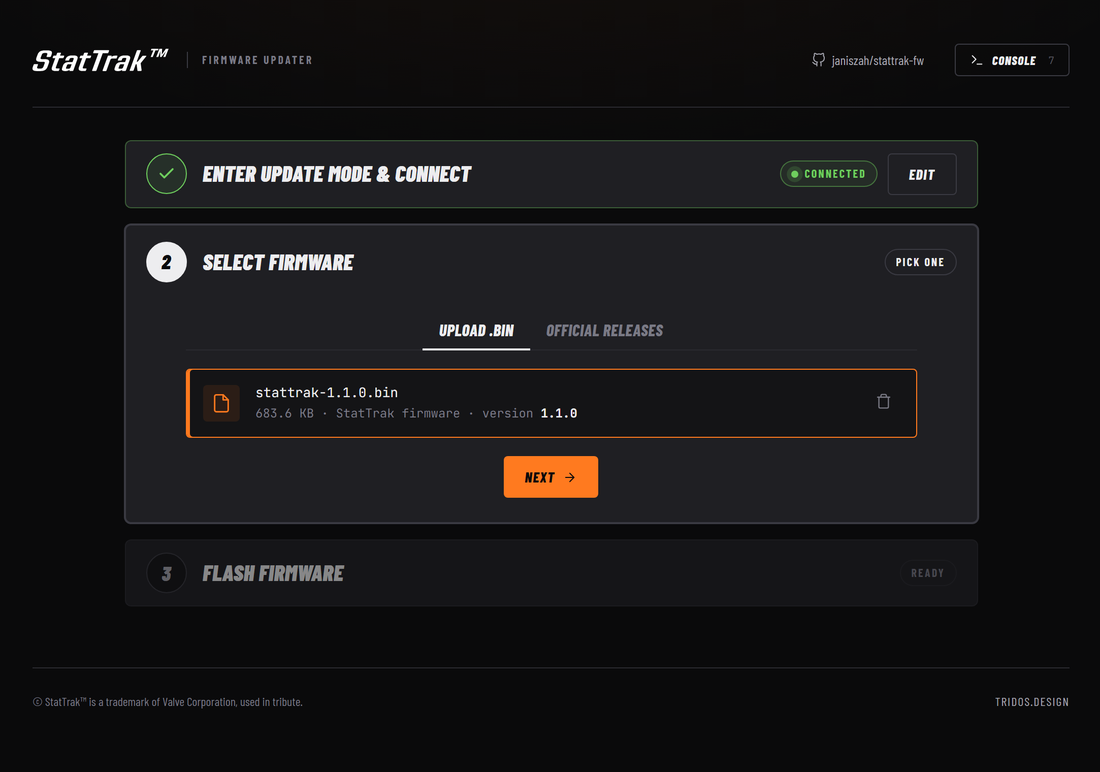
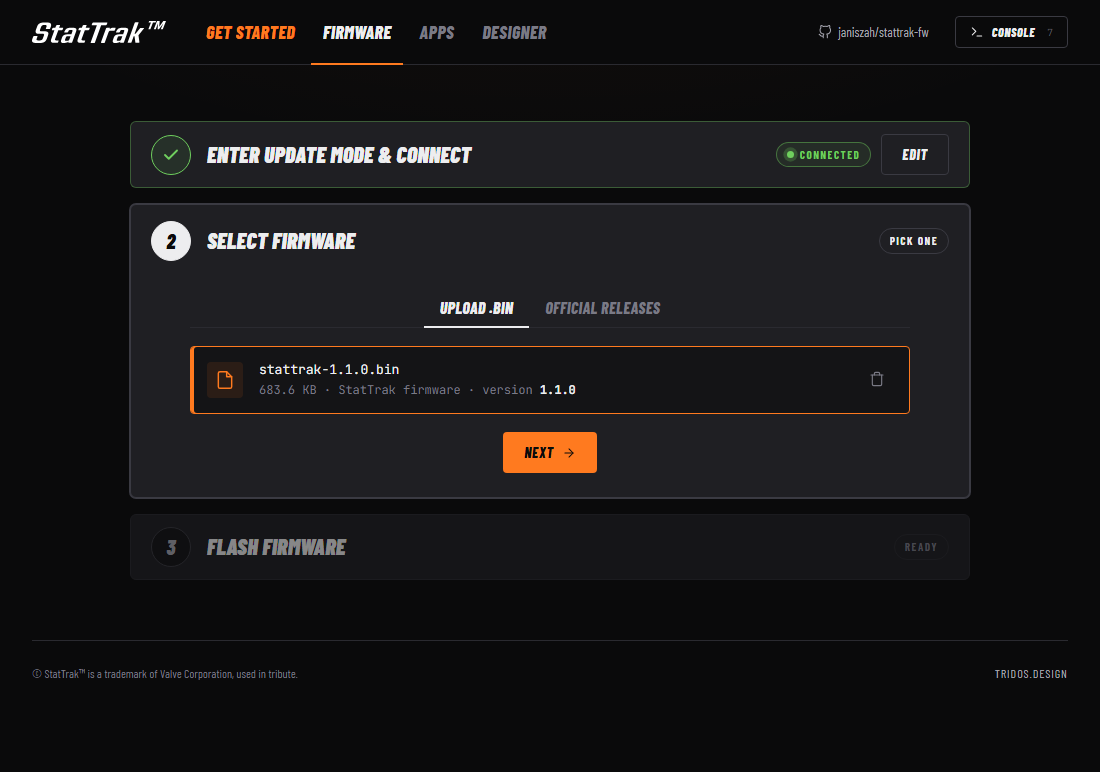
Plain display pixels, new screenshots, roadmap after the web site merge
- js/device.js: the lit pixels are plain squares with no drawn gaps (the gaps
  made a moire pattern at some sizes; on the real display they are almost
  invisible). Each run of lit pixels is one rectangle with whole-pixel edges.
- docs/images and updater/start/img: the firmware update, Apps and designer
  screenshots made again from the page (the new header of the web site and
  the new device picture). The Get started page has their new sizes.
- ROADMAP: the web site (PR #8) is shipped; not online until the Vercel
  project, the domain and the DNS record are set up.

diff --git a/updater/js/device.js b/updater/js/device.js
@@ -150,19 +150,23 @@ const StDevice = (() => {
     }
   }
 
-  /* One square for each lit pixel, with a small gap (as the real display) when the pixels are big enough */
+  /* The lit pixels as plain squares with no gaps: on the real display the gaps are almost
+     invisible, and drawn gaps make a moire pattern at some sizes. Each edge is rounded to a whole
+     canvas pixel, so the pixels meet and stay sharp at any size. */
   function draw(canvas, b) {
     const ctx = canvas.getContext("2d");
     const px = canvas.width / b.w, py = canvas.height / b.h;
-    const gap = px >= 3 ? Math.max(1, Math.round(px * 0.13)) : 0;
     ctx.clearRect(0, 0, canvas.width, canvas.height);
     ctx.fillStyle = LIT;
     for (let y = 0; y < b.h; y++) {
-      const y0 = Math.round(y * py), y1 = Math.round((y + 1) * py) - gap;
+      const y0 = Math.round(y * py), y1 = Math.round((y + 1) * py);
       for (let x = 0; x < b.w; x++) {
         if (!b.d[y * b.w + x]) continue;
-        const x0 = Math.round(x * px), x1 = Math.round((x + 1) * px) - gap;
+        let end = x;                                   // one rectangle for a row of lit pixels
+        while (end + 1 < b.w && b.d[y * b.w + end + 1]) end++;
+        const x0 = Math.round(x * px), x1 = Math.round((end + 1) * px);
         ctx.fillRect(x0, y0, x1 - x0, y1 - y0);
+        x = end;
       }
     }
   }

diff --git a/updater/start/index.html b/updater/start/index.html
@@ -131,8 +131,8 @@
               <li><b>Answer on the StatTrak.</b> It asks <code>INSTALL &lt;NAME&gt;?</code>. Hold button 2 for yes, or button 1 for no.</li>
             </ol>
             <div class="pair">
-              <img src="img/apps-ask.png" width="1100" height="478" loading="lazy" alt="The page shows the question on the device: INSTALL REACTION?" />
-              <img src="img/apps-done.png" width="1100" height="448" loading="lazy" alt="Installed: SYNC MORE or OPEN on the device" />
+              <img src="img/apps-ask.png" width="1100" height="457" loading="lazy" alt="The page shows the question on the device: INSTALL REACTION?" />
+              <img src="img/apps-done.png" width="1100" height="426" loading="lazy" alt="Installed: SYNC MORE or OPEN on the device" />
             </div>
             <p>In the same tab you can move, hide and delete apps, change their settings, and give your StatTrak its own
               Bluetooth name (for example <code>StatTrak | RED 7</code>). The new name starts the next time you open <code>Apps: SYNC</code>.</p>

diff --git a/docs/ROADMAP.md b/docs/ROADMAP.md
@@ -5,11 +5,7 @@ Product status of the StatTrak firmware. Finding numbers (A1, B7, ...) are from
 
 ## In progress
 
-- **One web site** (branch `feat/web-site`, not shipped). Firmware, Apps and the Screen Designer
-  on `stattrak.tridos.design` with one menu, and a new "Get started" page: what StatTrak is, how
-  to update, install apps, design screens and make your own app. The designer moved from
-  `tools/designer/` to `updater/designer/` (it still opens from a disk). Needs: the Vercel
-  project `stattrak` connected to this repository, the domain moved to it, and the DNS record.
+Nothing at the moment.
 
 ## Next up
 
@@ -66,11 +62,16 @@ This repository (`trakaismikus/stattrak`) is private until these are done:
 
 - **2026-11: new device picture for the web updater and the web simulator.** A render of the 3D model
   (matte black anodised aluminium, etched text, a glass that fills the rounded pocket) that looks
-  right on black and on white pages, with a live display on top (`updater/js/device.js`). Step 1
+  right on black and on white pages, with a live display on top (`updater/js/device.js`, plain pixels with no drawn gaps). Step 1
   of the firmware update plays the way to the update mode of firmware 1.0.1 (made by the 1.0.1
   simulator) in place of the old video; the Apps tab plays the "Apps: SYNC" screens (waiting, the
   hold of YES, installed). A firmware check (`tests/test_updater_screens.py`) fails when the device
   screens change and the page was not made again. Tools: `tools/device_art/`.
+- **2026-11: one web site (PR #8).** Firmware, Apps and the Screen Designer with one menu, and a
+  new "Get started" page: what StatTrak is, how to update, install apps, design screens and make
+  your own app. The designer moved from `tools/designer/` to `updater/designer/` (it still opens
+  from a disk). Not online yet: the Vercel project `stattrak` must be connected to this
+  repository, the domain `stattrak.tridos.design` moved to it, and the DNS record made.
 - **2026-11: apps (firmware 1.2.0-b1, a beta for testers).** Apps that users install over Bluetooth, like apps
   on a watch: the app engine (`components/stapp/`), the app list and storage (`main/apps.c`),
   the app host, app settings and "Apps: SYNC" views, the app manager commands `0x0110` to
